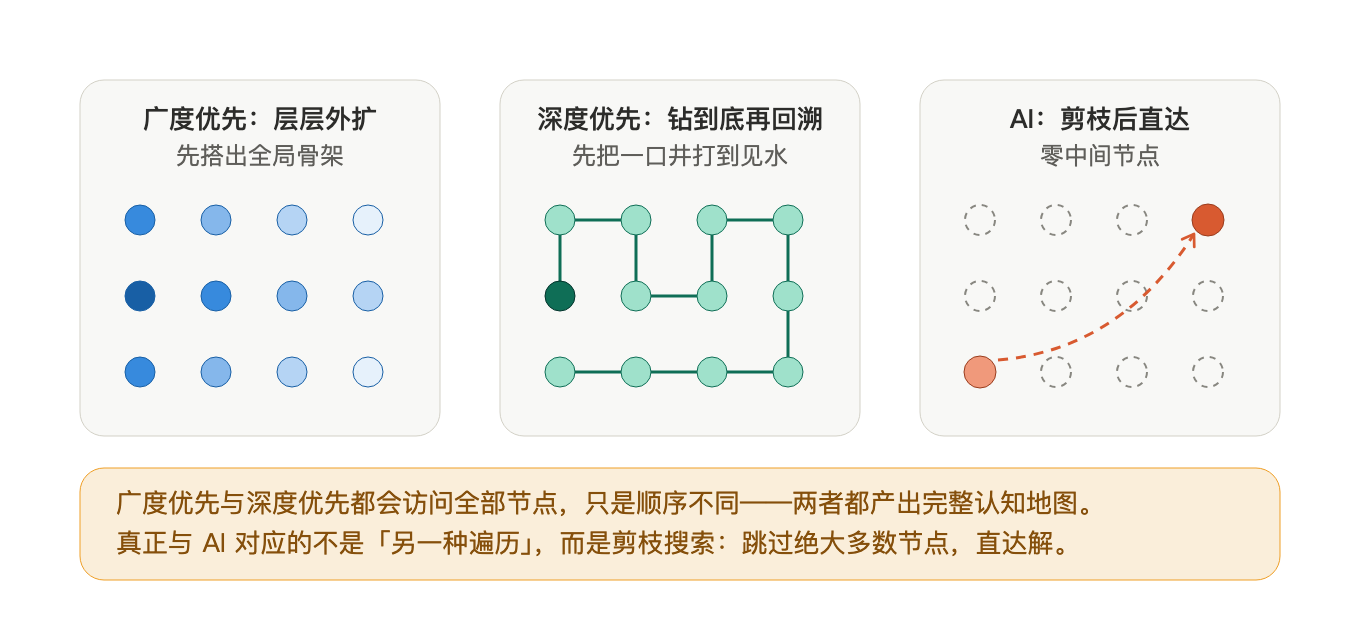
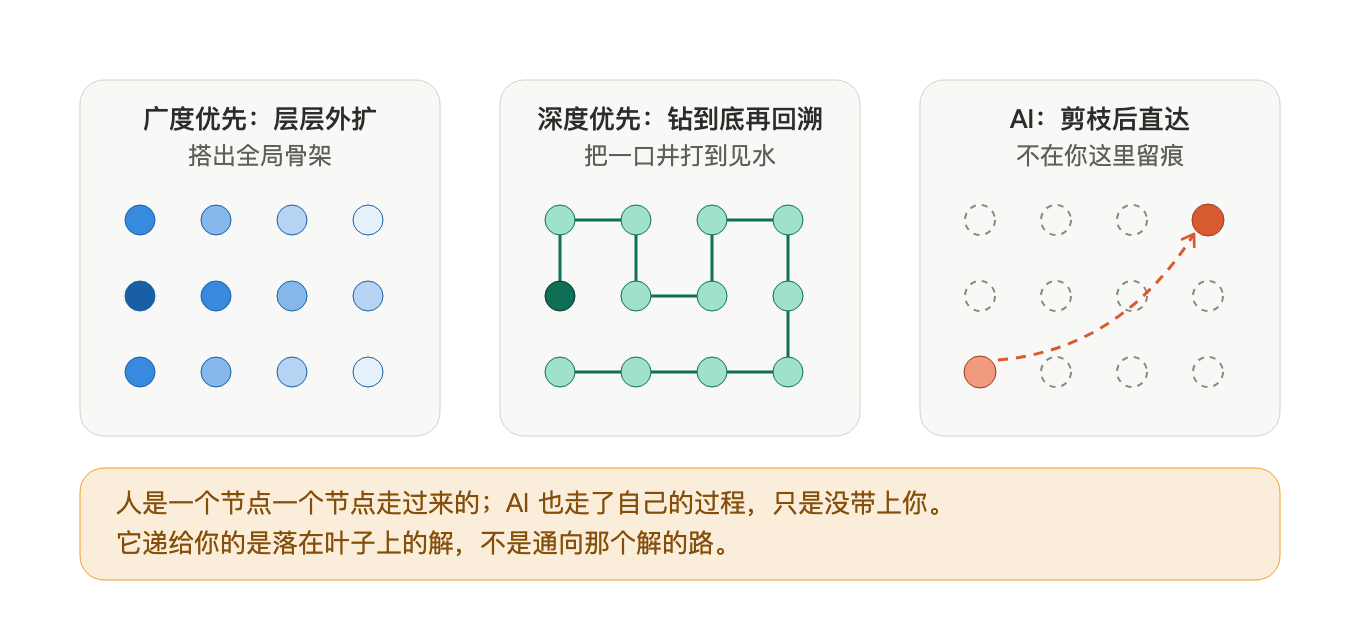
Update the AI learning paradigm post to the revised draft
Replace the body of _posts/2026-09-20-ai-learning-paradigm.md with the revised
draft: sections 二/三 retitled, wording tightened throughout, and a new
参考文献 section with 【1】【3】 markers.

- Drop the body H1, since the post layout already renders the title
- Switch figure paths to the site's absolute /assets/img/ convention
- Refresh the 图 1 / 图 4 artwork to match their revised captions; 图 2 and
  图 3 were byte-identical to what was already committed, so they are untouched

Body verified line-by-line against the supplied markdown: the only differences
are the removed H1 and the rewritten image paths.

diff --git a/_posts/2026-09-20-ai-learning-paradigm.md b/_posts/2026-09-20-ai-learning-paradigm.md
@@ -7,59 +7,57 @@ category: 学习札记
 tags: AI 学习 认知 效率 判断力
 ---
 
-> 从广度优先与深度优先的完整遍历，到一次剪枝直达——我们拿到了答案，却可能失去了地图。
+> 从广度优先与深度优先的逐步展开，到剪枝直达——我们拿到了答案，却可能失去了地图。
 
 ## 一、一种说不清的空缺
 
-近来我一直有一种微妙的感受：借助 AI 学习，知识点确实稳稳学到手了，结论清晰完整，解决问题的效率大幅提升，但心底总会多出一丝异样的空缺。
+近来我一直有一种微妙的感受：借助 AI 学习，知识点好像学到了，结论似乎清晰完整，解决问题的效率也大幅提升，但心底总会多出一丝异样的空缺。
 
 起初我以为这只是「学得太容易，所以心里发虚」。后来想明白了：我拿到的是结论，缺的是得出结论的过程。
 
-## 二、人原本有两套互补的探路方式
+## 二、两种学习路径
 
-在 AI 普及之前，人类自主学习本身就包含两套成熟且互补的路径。二者没有优劣之分，只是构建认知的方式截然不同。
+我认为在 AI 普及之前，自主学习大致有两条路径。
 
 **广度优先展开。** 当我们踏入一个全新领域，会翻阅大量文档、教程、行业资料，在良莠不齐的信息里交叉比对、反复求证。观点相互矛盾、实操案例失效、局部逻辑片面都是常态。我们横向铺开多条线索大范围试探，不断踩坑、筛选、排除错误思路。
 
 广度优先意味着**你先遇到的是起点附近的一切**——其中大量节点此刻看不出用途：跑偏的思路、多余的参照案例、非主线的细节、阶段性作废的解决方案。短期来看，这些都属于冗余消耗。
 
-**深度优先扎根。** 而当我们锁定某一个核心难点，主动向下深挖底层原理，专注击穿单一领域的内在逻辑，进行沉浸式钻研——沿一条路径走到见水为止，不刻意拓宽知识面，只求单点吃透，很容易构筑起难以替代的专业壁垒。这种亲手深耕得来的认知，记忆牢固、理解透彻，本身也是高质量的深度学习。
+**深度优先扎根。** 而当我们锁定某一个核心难点，主动向下深挖底层原理，专注击穿单一领域的内在逻辑，进行沉浸式钻研——沿一条路径走到见水为止，不刻意拓宽知识面，只求单点吃透，很容易形成别人拿不走的那一层理解。这种亲手深耕得来的认知，本身也是高质量的深度学习。
 
-这里有一个常被忽略的事实：**这两条路都是完整遍历。** 它们在同一个知识图上访问的是同一批节点——差别不在「走没走全」，而在**顺序**。广度优先先搭出全局骨架，让你知道地形有多大、边界在哪；深度优先先把一口井打到见水，让你知道深层结构长什么样。顺序不同，但地图最终都完整。
+不过这两种走法在现实中并不是前后两段，而是**交织进行**的。你可能先扫过一圈，锁定一个点往深里钻；钻到某处卡住了，又横向散开去找参照；找到新线索，再折回去继续往下。真实的学习过程基本是来回穿插的，很少有一条道走到底的情形。
 
-过去完整的自学闭环，通常正是这两者的组合。整个过程节奏偏慢，会经历弯路与冗余试错，所有筛选、思辨、验证的认知成本都需要自己承担——而正是这份承担，最终换来一张**立体完整、自带容错边界的个人认知地图**。
+过去完整的自学闭环，通常正是这两者的来回组合。弯路和冗余试错是其中的常态，筛选、思辨、验证的认知成本都要自己承担——但正是这份承担，最终换来一张**自己长出来的认知地图**：它未必完整，甚至可能有错，但它内部自洽——你知道大部分结论可能是从哪里推出来的，也就知道也许它会在哪里塌。这份「知道自己边界在哪」，是它有价值的地方之一。
 
-## 三、AI 做的事：它根本没有走
+## 三、AI 想过，但你没走过
 
 AI 彻底重构了这套学习逻辑。
 
-当我们向 AI 发起提问时，模型已经提前完成了数据清洗、分支剪枝、谬误排查、路径优化，直接输出一套逻辑自洽的最优答案。
+当我们向 AI 发起提问时，它会在一段时间内跑完多轮推理过程——理解问题、调动所学、比对、排除，最后组织出一套逻辑自洽的答案。**这个过程真实存在**，AI 并没有跳过思考，那些推理确实发生过，只是发生在你之外。问题出现了：**它走过的那段路，可能不会在你的认知体系里留下印记。**
 
-需要说清楚的是：它**既不等同于人手动执行的广度遍历，也不是自主完成的深度钻研**。传统学习无论走哪条路，都把图走完了；AI 的操作则是——**几乎没有访问过任何中间节点**。
+也可以把它看成一次**剪枝搜索**：在它内部展开的那棵搜索树里，绝大多数分支还没走到就被排除了，只有极少数节点真正被展开，最后递到你手上的，是落在某个叶子上的那个解。
 
-它的本质更接近一次**剪枝搜索**：在庞大的搜索树里，绝大多数分支在展开之前就被启发式函数砍掉了，只有极少数节点被真正展开，你直接拿到了叶子上那个解。
+更贴切的比喻是**知识蒸馏**。教师模型（AI）完成了那条推导，学生模型（你）继承的则是它的**输出分布**——也就是「问题 → 答案」的映射。答案看起来是对的，但中间那串推理链不会在你的认知里留下痕迹。就像拿到一份编译好的二进制文件：运行完美，只是没有源码。
 
-更贴切的比喻是**知识蒸馏**。教师模型（AI）完成了全部推理，学生模型（你）继承的则是它的**输出分布**——也就是「问题 → 答案」的映射。答案是对的，但中间那串推理链从未在你的认知里留下痕迹。就像拿到一份编译好的二进制文件：运行完美，只是没有源码。
+![图 1｜左边与中间都在图上留下密集足迹；右边只留下起点和终点两个点](/assets/img/20260920_paradigm1.png)
 
-![图 1｜左边与中间都走完了整张图，只是顺序不同；右边几乎没有访问任何节点](/assets/img/20260920_paradigm1.png)
+这套模式的效率优势很明显。我们确实精准掌握了对应知识点，也能顺利解决手头问题。但取舍随之而来：
 
-这套模式的效率优势毋庸置疑。我们确实精准掌握了对应知识点，也能顺利解决手头问题。但取舍随之而来：
+AI 已经替你剔除了大量它判定为低效的冗余——**其中包括那些短期无用、长期却具备潜在价值的碎片**。它帮我们省去了大量试错成本，也一并拿走了亲手绘制认知地图的全过程。
 
-AI 主动剔除了所有它判定的低效冗余——**其中包括那些短期无用、长期却具备潜在价值的碎片**。它帮我们省去了大量试错成本，也一并拿走了亲手绘制完整认知地图的全过程。
+从算法里借一个视角来看：**一个你从未搜索过的解，你很难判断它的稳健性。** 因为你不掌握它在解空间中的坐标——不知道它周围还有哪些候选，不知道离最近的陷阱有多远，不知道换一个前提条件它还成不成立。你只知道「它是答案」，而「它是答案」这件事，是AI告诉你的。
 
-算法领域有一条朴素的规律：**一个你从未搜索过的解，你无法判断它的稳健性。** 因为你不掌握它在解空间中的坐标——不知道它周围还有哪些候选，不知道离最近的陷阱有多远，不知道换一个前提条件它还成不成立。你只知道「它是答案」，而「它是答案」这件事，是别人告诉你的。
-
-学习同理。我们拿到了标准答案，知识点本身并未缺失，只是跳过了自主横向探索、亲手纵向攻坚的完整过程。**知识可以被获取，但层层摸索沉淀出来的边界判断力与全局感知力，会有所欠缺。**
+学习同理。我们拿到了一个现成的答案，知识点本身并未缺失，只是跳过了自主横向探索、亲手纵向攻坚的整个过程。**知识可以被获取，但层层摸索沉淀出来的边界判断力与全局感知力，会有所欠缺。**
 
 ## 四、为什么「冗余」其实并不冗余
 
 如果文章停在这里，它读起来会像一句感伤。但这里有一条更硬的机制。
 
-认知科学里有一个被反复验证的结论：**学习的效果不只取决于信息的质量，还取决于获取信息时的费力程度。** Bjork 把它概括为 desirable difficulties——适度的困难、必要的弯路、自己动手的生成，本身就是学习发生的条件，而不是学习效率的损耗。
+认知科学里有一个被反复验证的结论：**学习的效果不只取决于信息的质量，还取决于获取信息时的费力程度。** Robert Bjork 把这一类现象概括为 desirable difficulties——适度的困难、需要付出的努力，本身就是学习发生的条件，而不是学习效率的损耗。**【1】【3】**
 
 有三条机制值得记住。
 
-**其一，生成效应。** 由自己生成的信息，比被动接收同样的信息，留存率高出许多。被动接收的答案容易被识别为「熟悉」，而这份熟悉感又极易被误认为「掌握」——这正是「学到了但心里发空」的机制来源：你拥有的是熟悉感，不是可用性。
+**其一，生成效应。** 由自己生成的信息，比被动接收同样的信息，留存率明显更好。**【2】** 被动接收的答案容易被识别为「熟悉」，而这份熟悉感又极易被误认为「掌握」——这正是「学到了但心里发空」的机制来源：你攥住的是熟悉感，还没形成可用性。**【1】**
 
 **其二，检索路径依赖。** 一条知识能不能在需要时被调用，取决于编码时建立了多少条通往它的路径。你亲手绕过的每一条弯路、排除过的每一个错误方案，未来都会变成一条**召回线索**——它们让你在相似情境下想起这条知识，也让你能识别出「这里不适用」。AI 的直达路径只建立了一条线：从问题到答案。
 
@@ -71,35 +69,33 @@ AI 主动剔除了所有它判定的低效冗余——**其中包括那些短期
 
 ## 五、这篇文章自身的悖论
 
-这篇文章本身也存在一重有趣的自我悖论：它诞生于一个极致追求效率的时代，读者大概率也是为了快速获取参考思路而来，但探讨的恰恰是效率之外、冗余探索不可替代的长期价值。
+这篇文章本身也存在一重有趣的自我悖论：它诞生于一个以效率为最高标准的时代，读者大概率也是为了快速获取参考思路而来，但探讨的恰恰是效率之外、冗余探索不可替代的长期价值。
 
 这份矛盾本身就是当下学习的真实形态，我并不打算调和它。
 
 ## 六、两种选择，各自承担代价
 
-归根结底，我们面前只有两种中立的选择，没有绝对的对错，只是各自承担的代价不同。
+归根结底，我们面前大致有两条路，没有绝对的对错，只是各自承担的代价不同。
 
 ### 原生自主学习
 
-包容弯路、接纳暂时无用的知识积累，既能大范围漫游拓广视野，也能沉下心单点深度死磕。整体耗时更长、精力投入更高，但最终会收获完整的全局视野、专业深度与边界判断力。认知地图立体、完整，也足够丰饶。
+包容弯路、接纳暂时无用的知识积累，既能大范围漫游拓广视野，也能沉下心单点深度死磕。整体耗时更长、精力投入更高，但最终会收获更宽的全局视野、更深一层的专业能力，以及一份自己验证过的边界判断力。认知地图未必完整，却立体、丰饶。
 
 ### AI 蒸馏式学习
 
-无多余分支、无手动试错、无冗余信息，全程直达最优结果。极致高效、结果稳定，非常适合快速补齐知识短板、完成即时性工作任务。代价是：你拥有一批被验证过的结论，以及通往它们的少数几条窄路。
+少多余分支、无手动试错、几乎没有冗余信息，全程直达可用结果。效率极高、结果稳定，非常适合快速补齐知识短板、完成即时性工作任务。代价是：你拥有一批被验证过的结论，以及通往它们的少数几条窄路。
 
 我们无需刻意否定 AI 工具的价值。它不是学习的敌人，恰恰相反，它是**极强的杠杆**。
-
-问题只在于：杠杆撬动的那个支点，由谁来出。
 
 ## 七、那么，判断力从哪里来
 
 选择 AI 辅助学习，是优先选择效率；保留自主探索的过程，是主动选择认知的丰饶。
 
-效率可以让我们随时快速拿到标准答案。
+效率可以让我们随时快速拿到一个看起来完备的答案。
 
-但那些笨拙的广度漫游、沉浸式的深度深耕，还有那些悄悄沉淀的临时无用知识碎片，才是构建独立思考与自主拓路能力的根基。
+但那些看似笨拙的广度漫游和深度深耕，还有那些悄悄沉淀的临时无用知识碎片，恰好可能是构建独立思考与自主拓路能力的根基。
 
-古典哲学早就把这两样东西分开了：
+哲学和认知学科里，这对区分由来已久：
 
 *techné*（技艺）——产出正确结果的能力。这一项，AI 慷慨得惊人，而且会越来越慷慨。
 
@@ -107,11 +103,9 @@ AI 主动剔除了所有它判定的低效冗余——**其中包括那些短期
 
 判断力不来自被告知。它扎根于亲身学习，扎根于一手知识的沉淀。
 
-于是，文章开头那个问题——倘若彻底放弃亲身探索与积累，我们又该依靠什么，去分辨 AI 给出答案的真伪与边界？
+于是就有了那个反问——倘若彻底放弃亲身探索与积累，我们又该依靠什么，去分辨 AI 给出答案的真伪与边界？
 
 ![图 3｜左栏的东西可以打包给你，右栏的东西只能自己长出来](/assets/img/20260920_paradigm3.png)
-
-**答案已经很明显了：这份能力，AI 给不了你。**
 
 ## 八、Pair Learning with AI
 
@@ -119,24 +113,34 @@ AI 主动剔除了所有它判定的低效冗余——**其中包括那些短期
 
 这是个错误的结论。
 
-前面所有讨论的落点是**代价**，不是**否决**。AI 已经是基础设施——它不再是「要不要用」的选择题，而是「怎么用」的能力题。在这个前提下宣称「我坚持自己走完整条路」，不是坚守，是落后。
+前面所有讨论的落点是**代价**，不是**否决**。AI 已经是基础设施——它不再是「要不要用」的选择题，而是「怎么用」的能力题。
 
-真正的问题从来不是用不用 AI，而是**谁负责遍历，谁负责收敛**。传统学习里这两件事都由你一个人扛，所以慢，但也所以厚。而 AI 恰好把收敛做到了极致——那我们就不该再把时间花在它最擅长的地方。
+我的答案是：**Pair Learning with AI**——AI + Human。
 
-我的答案是：**让 AI 负责收敛，自己负责遍历。** 这是一种配对，但不是对等的配对——AI 走主干，你走枝节。
-
-![图 4｜左边是一个人扛下全部工序，右边是把收敛交给 AI、把遍历留给自己](/assets/img/20260920_paradigm4.png)
+![图 4｜左边是一个人扛下全部工序，右边是 AI + Human 各做自己擅长的部分](/assets/img/20260920_paradigm4.png)
 
 具体三条。
 
-**先猜，再问。** 遇到问题先自己试一遍，哪怕是错的。带着一个具体的错误答案去提问，比空白提问能拿到多得多的东西——因为你已经有了一个可供对比的坐标。AI 帮你纠偏的那一刻是真正的学习；AI 直接把答案递给你，那只是一次搬运。
+**先猜，再问。** 遇到问题先自己试一遍，哪怕是错的。带着一个具体的错误答案去提问，比空白提问能问出更多东西——因为你已经有了一个可供对比的坐标。AI 帮你纠偏的那一刻是真正的学习；AI 直接把答案递给你，那只是一次搬运。
 
-**问过程，不只问结果。** 不要满足于「是什么」，逼它给出推导、反例和边界条件，尤其是那一句「什么情况下这个答案会失效」。这本身就是一次人工遍历，只不过对手不会嫌你烦。
+**问过程，不只问结果。** 不要满足于「是什么」，逼它给出推导、反例和边界条件，尤其是那一句「什么情况下这个答案会失效」。这本身就是一次人工遍历，只不过这个陪练不会嫌你烦。
 
 **拿到答案之后，再往外走两步。** AI 停下的地方，才是你该出发的地方。顺着它给的路径往两边看：相邻的知识点是什么？为什么它没往那边走？那些看似很远的领域，和你手上的问题有什么可迁移的结构？
 
-所谓 Pair Learning，不是把 AI 当成答案机，而是把它当成一个跑得极快、但只走主干的探路者。它在前面替你砍掉整片森林，你负责把它砍出的那条路，走宽。
+所谓 Pair Learning，不是把 AI 当成答案机，而是把它当成一个跑得极快的探路者。它在前面替你砍掉整片森林，而你能做的，是把它砍出的那条路走宽，再往外走。
 
 反思归反思，潮流归潮流。回避 AI 从来不是答案——真正值得担心的不是 AI 太强，而是人在使用它的过程中，悄悄把自己那份「走弯路的能力」也一并外包了出去。
 
-**Pair Learning with AI：把收敛交出去，把判断留下来。**
+**Pair Learning with AI：答案交给 AI，判断留给自己。**
+
+---
+
+## 参考文献
+
+1. Bjork, R. A. “Memory and Metamemory Considerations in the Training of Human Beings.” In J. Metcalfe & A. Shimamura (Eds.), *Metacognition: Knowing about Knowing*, MIT Press, 1994, pp. 185–205.
+   原文 PDF：https://bjorklab.psych.ucla.edu/wp-content/uploads/sites/13/2016/07/RBjork_1994a.pdf
+   DOI：https://doi.org/10.7551/mitpress/4561.003.0011
+2. Slamecka, N. J., & Graf, P. “The Generation Effect: Delineation of a Phenomenon.” *Journal of Experimental Psychology: Human Learning and Memory*, 4(6), 1978, pp. 592–604.
+   DOI：https://doi.org/10.1037/0278-7393.4.6.592
+3. Bjork, R. A., & Bjork, E. L. “Desirable Difficulties in Theory and Practice.” *Journal of Applied Research in Memory and Cognition*, 9(4), 2020, pp. 475–479.
+   DOI：https://doi.org/10.1016/j.jarmac.2020.09.003
